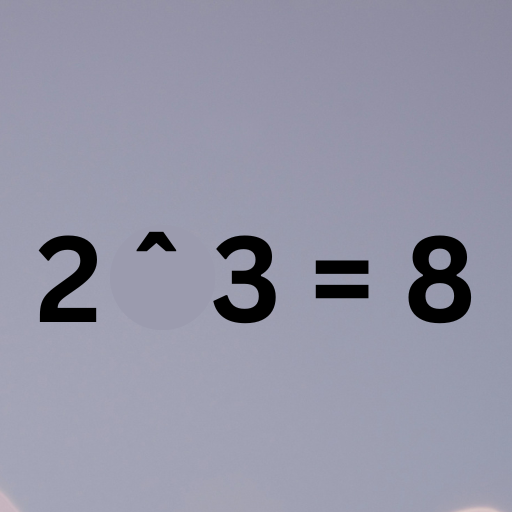
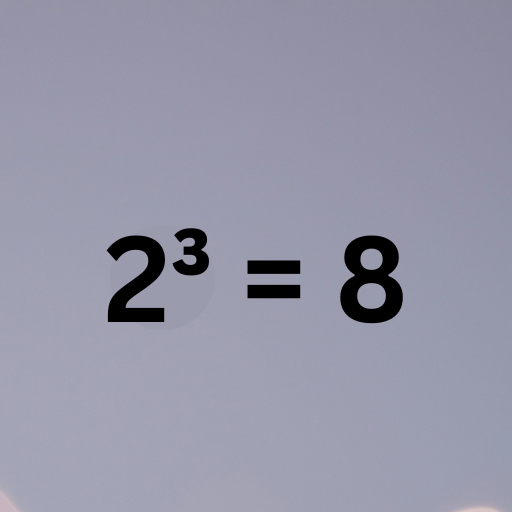
Update styling

Changed region(s): [[0.0625, 0.4375, 0.9375, 0.6562]]

diff --git a/src/app/captcha/captcha.component.ts b/src/app/captcha/captcha.component.ts
@@ -14,7 +14,7 @@ import { ImageItem, GridChallenge } from './captcha.model';
 export class CaptchaComponent implements OnInit {
   constructor(private router: Router) {}
   challenges: GridChallenge[] = [
-    // 1. Can Fly
+    // 1. Can Fly x 15
     {
       type: 'image-select',
       prompt: 'Select all images that can fly',
@@ -31,10 +31,13 @@ export class CaptchaComponent implements OnInit {
         { src: 'assets/images/lion.png', alt: 'lion', selected: false, canFly: false },
         { src: 'assets/images/elephant.png', alt: 'elephant', selected: false, canFly: false },
         { src: 'assets/images/gorilla.png', alt: 'gorilla', selected: false, canFly: false },
+        { src: 'assets/images/spaceship.png', alt: 'spaceship', selected: false, canFly: true },
+        { src: 'assets/images/bat.png', alt: 'bat', selected: false, canFly: true },
+        { src: 'assets/images/eagle.png', alt: 'eagle', selected: false, canFly: true },
       ],
       answerCheck: (imgs: ImageItem[]) => imgs.every(img => img.selected === !!img.canFly)
     },
-    // 2. Odd-One-Out
+    // 2. Odd-One-Out x 12
     {
       type: 'odd-one-out',
       prompt: 'Select the image that does not belong to the group',
@@ -53,30 +56,31 @@ export class CaptchaComponent implements OnInit {
         { src: 'assets/images/sailing-boat.png', alt: 'sailing boat', selected: false, oddOne: true }
       ],
       answerCheck: (imgs: ImageItem[]) => imgs.every(img => img.selected === !!img.oddOne)
-      // answerCheck: (imgs: ImageItem[]) =>
-      //   imgs.filter(img => img.selected).length === 1 &&
-      //   !!imgs.find(img => img.selected)?.oddOne
     },
-    // 3. Math
+    // 3. Math x 17
     {
       type: 'math-select',
-      prompt: 'Select all images with correct math answers',
+      prompt: 'Select all images with mathCorrect math answers',
       images: [
-        { src: 'assets/images/math-2plus2-4.png', alt: '2 + 2 = 4', selected: false, correct: true },
-        { src: 'assets/images/math-3times3-9.png', alt: '3 × 3 = 9', selected: false, correct: true },
-        { src: 'assets/images/math-6minus5-2.png', alt: '6 - 5 = 2', selected: false, correct: false },
-        { src: 'assets/images/math-4plus4-8.png', alt: '4 + 4 = 8', selected: false, correct: true },
-        { src: 'assets/images/math-7minus1-6.png', alt: '7 - 1 = 5', selected: false, correct: true },
-        { src: 'assets/images/math-8div2-4.png', alt: '8 / 2 = 4', selected: false, correct: true },
-        { src: 'assets/images/math-5plus1-6.png', alt: '5 + 1 = 6', selected: false, correct: true },
-        { src: 'assets/images/math-3plus3-5.png', alt: '3 + 3 = 5', selected: false, correct: false },
-        { src: 'assets/images/math-1plus1-2.png', alt: '1 + 1 = 2', selected: false, correct: true },
-        { src: 'assets/images/math-6mod4-2.png', alt: '6 % 4 = 2', selected: false, correct: true }, // Modulus
-        { src: 'assets/images/math-5mod3-3.png', alt: '5 % 3 = 3', selected: false, correct: false },
-        { src: 'assets/images/math-2pow3-8.png', alt: '2 ^ 3 = 8', selected: false, correct: true }, // Exponent (power)
-        { src: 'assets/images/math-3pow2-6.png', alt: '3 ^ 2 = 6', selected: false, correct: false }
+        { src: 'assets/images/math-2plus2-4.png', alt: '2 + 2 = 4', selected: false, mathCorrect: true },
+        { src: 'assets/images/math-3times3-9.png', alt: '3 × 3 = 9', selected: false, mathCorrect: true },
+        { src: 'assets/images/math-6minus5-2.png', alt: '6 - 5 = 2', selected: false, mathCorrect: false },
+        { src: 'assets/images/math-4plus4-8.png', alt: '4 + 4 = 8', selected: false, mathCorrect: true },
+        { src: 'assets/images/math-7minus1-6.png', alt: '7 - 1 = 5', selected: false, mathCorrect: true },
+        { src: 'assets/images/math-8div2-4.png', alt: '8 / 2 = 4', selected: false, mathCorrect: true },
+        { src: 'assets/images/math-5plus1-6.png', alt: '5 + 1 = 6', selected: false, mathCorrect: true },
+        { src: 'assets/images/math-1plus1-2.png', alt: '1 + 1 = 2', selected: false, mathCorrect: true },
+        { src: 'assets/images/math-4mod6-4.png', alt: '4 % 6 = 4', selected: false, mathCorrect: true },
+        { src: 'assets/images/math-6mod4-2.png', alt: '6 % 4 = 2', selected: false, mathCorrect: true }, // Modulus
+        { src: 'assets/images/math-5mod3-3.png', alt: '5 % 3 = 3', selected: false, mathCorrect: false },
+        { src: 'assets/images/math-2pow3-8.png', alt: '2³ = 8', selected: false, mathCorrect: true }, // Exponent (power)
+        { src: 'assets/images/math-3pow2-6.png', alt: '3² = 6', selected: false, mathCorrect: false },
+        { src: 'assets/images/math-3pow0-3.png', alt: '3⁰ = 3', selected: false, mathCorrect: false },
+        { src: 'assets/images/math-0pow3-0.png', alt: '0³ = 0', selected: false, mathCorrect: true },
+        { src: 'assets/images/math-5pow0-1.png', alt: '5⁰ = 1', selected: false, mathCorrect: true },
+        { src: 'assets/images/math-5pow2-25.png', alt: '5² = 25', selected: false, mathCorrect: true },
       ],
-      answerCheck: (imgs: ImageItem[]) => imgs.every(img => img.selected === !!img.correct)
+      answerCheck: (imgs: ImageItem[]) => imgs.every(img => img.selected === !!img.mathCorrect)
     },
     
   ];
@@ -86,6 +90,8 @@ export class CaptchaComponent implements OnInit {
   userSelections: ImageItem[][] = [];
   timerInterval: any;
   formattedTime = '';
+  //   timerInterval!: ReturnType<typeof setInterval>;
+  // formattedTime = '0m 0s';
 
   ngOnInit() {
     const startTime = Number(sessionStorage.getItem('captchaStartTime'));
@@ -99,7 +105,7 @@ export class CaptchaComponent implements OnInit {
 
   startTimer(startTime: number) {
     if (!startTime) return;
-    // Display live elapsed total time since home start
+    // Display live progress total time since click start
     this.timerInterval = setInterval(() => {
       const seconds = Math.floor((Date.now() - startTime) / 1000);
       const minutes = Math.floor(seconds / 60);
@@ -117,7 +123,7 @@ export class CaptchaComponent implements OnInit {
         src: img.src,
         alt: img.alt,
         selected: img.selected 
-      })) // Lightweight grid: no answer properties like canFly, oddOne, or correct
+      })) // Lightweight grid: no answer properties like canFly, oddOne, or mathCorrect
     };
     sessionStorage.setItem(key, JSON.stringify(state));
     sessionStorage.setItem('currentChallenge', (this.currentChallenge + 1).toString());
@@ -180,21 +186,21 @@ export class CaptchaComponent implements OnInit {
       this.loadCurrentChallenge();
       this.saveProgress();
     } else {
-     // For the final challenge, mark completion and redirect
-    const endTime = Date.now();
-    sessionStorage.setItem('captchaEndTime', endTime.toString());
-    sessionStorage.setItem('captchaCompleted', 'true');
-    this.router.navigate(['/result'])
+    // For the final challenge, mark completion and redirect
+    this.completeCaptchaRecord();
     }
   }
 
   finishChallenge() {
-    this.saveProgress(); // preserve last state
-    const endTime = Date.now();
+    this.completeCaptchaRecord();
+  }
+  // Helper function to complete captcha and redirect
+  private completeCaptchaRecord(endTime: number = Date.now()) {
     const readableEndTime = new Date(endTime).toLocaleString();
     sessionStorage.setItem('captchaEndTime', `${endTime} (${readableEndTime})`);
-    sessionStorage.setItem('captchaCompleted', 'true'); // optional flag for guards
-    this.router.navigate(['/result']); // go to result page
+    sessionStorage.setItem('captchaCompleted', 'true');
+    this.saveProgress();
+    this.router.navigate(['/result']);
   }
 }
 

diff --git a/src/app/captcha/captcha.component.html b/src/app/captcha/captcha.component.html
@@ -2,6 +2,10 @@
   {{ challenges[currentChallenge].prompt }}
 </h2>
 
+<div class="timer">
+  Your progress time: {{ formattedTime }}
+</div>
+
 <div class="captcha-grid">
   <div 
     *ngFor="let img of gridImages; let i = index"
@@ -24,6 +28,7 @@
   >
     Back
   </button>
+
   <button 
     class="btn-main" 
     (click)="nextChallenge()" 
@@ -32,6 +37,7 @@
   >
     Next
   </button>
+  
   <button 
     class="btn-main"
     [disabled]="!checkAnswers()"
@@ -42,22 +48,9 @@
   </button>
 </div>
 
+<p class="hint-text" *ngIf="!checkAnswers()">
+  {{ currentChallenge === challenges.length - 1
+    ? 'Complete this challenge to enable the “Finish” button.'
+    : 'Complete this challenge to enable the “Next” button.' }}
+</p>
 
-
-
-<!-- <p>captcha works!</p> -->
-<!-- <h2 class="captcha-title">Select all images that can fly</h2>
-<div class="captcha-grid">
-  <div 
-    *ngFor="let img of gridImages; let i = index"
-    class="captcha-cell"
-    (click)="selectImage(i)"
-    [class.selected]="img.selected"
-    [attr.aria-label]="img.alt"
-    tabindex="0"
-    role="button"
-  >
-    <img [src]="img.src" [alt]="img.alt" class="captcha-image" />
-  </div>
-</div>
-<button class="btn-main" (click)="checkAnswers()">Submit</button> -->

diff --git a/src/app/home/home.component.ts b/src/app/home/home.component.ts
@@ -28,24 +28,14 @@ export class HomeComponent implements OnInit {
     });
   }
     startCaptcha() {
-    // Object.keys(sessionStorage).forEach((key) => {
-    //   if (
-    //     key.startsWith('captchaChallenge_') ||
-    //     key === 'currentChallenge' ||
-    //     key === 'captchaStarted' ||
-    //     key === 'captchaStartTime' ||
-    //     key === 'captchaCompleted'
-    //   ) {
-    //     sessionStorage.removeItem(key);
-    //   }
-    // });
-
     // Initialize new session state
     const now = Date.now();
     const readableStartTime = new Date(now).toLocaleString();
 
     sessionStorage.setItem('captchaStarted', 'true');
-    sessionStorage.setItem('captchaStartTime', `${now} (${readableStartTime})`); // ← record the absolute start time
+    sessionStorage.setItem('captchaStartTime', now.toString()); // store numeric only
+    sessionStorage.setItem('captchaStartReadable', readableStartTime); // optional, for results display
+    // sessionStorage.setItem('captchaStartTime', `${now} (${readableStartTime})`); // ← record the absolute start time
     this.router.navigate(['/captcha']);
   }
 }

diff --git a/src/styles.css b/src/styles.css
@@ -2,12 +2,13 @@
 
 :root {
   --color-main: #b76773;       /* tea rose red */
+  --color-text: #362222;       /* dark, readable text */
+  --color-button: linear-gradient(90deg, #dea193 0%, #b76773 100%);
+
   --color-accent: #DE5D83;     /* deep pink */
   --color-surface: #ECC5C0;    /* pink blush */
   --color-soft: #DEA193;       /* pale peach */
   --color-bg: #faeef2;         /* lavender blush */
-  --color-text: #362222;       /* dark, readable text */
-  --color-button: linear-gradient(90deg, #dea193 0%, #b76773 100%);
 }
 
 /* Page background and body text */
@@ -49,6 +50,7 @@ h2 {
   color: var(--color-main);
   font-weight: 500;
   margin-bottom: 0.5em;
+  text-decoration: dotted underline;
 }
 
 /* Button styles */
@@ -103,11 +105,6 @@ button :focus, .btn-main:focus {
     gap: 10px;
     width: 90%;
   } 
-
-  /* .captcha-controls {
-    max-width: 200px; 
-    gap: 16px;
-  } */
 
   button,
   .btn-main {

diff --git a/src/app/captcha/captcha.component.css b/src/app/captcha/captcha.component.css
@@ -1,4 +1,3 @@
-/* Ensure consistent box-sizing across the layout */
 *,
 *::before,
 *::after {
@@ -46,12 +45,20 @@
   color: black;
 }
 
+.timer {
+  text-align: center;
+  font-size: 1.1em;
+  color: #333;
+  font-weight: 500;
+}
+
+
 .captcha-controls {
   display: flex;
-  justify-content: space-between; /* Puts buttons on opposite sides */
+  justify-content: space-between; 
   align-items: center;
   max-width: 500px;
-  margin: 0 auto 0 auto; /* Center the button row */
+  margin: 0 auto 0 auto; 
   box-sizing: border-box;
 }
 
@@ -73,7 +80,13 @@
   transform: translateY(-2px) scale(1.03);
 }
 
-
+.hint-text {
+  text-align: center;
+  font-size: 0.9em;
+  color: #666;
+  margin-top: 0.5em;
+  font-style: italic;
+}
 
 @media (max-width: 790px) {
   .captcha-controls {

diff --git a/src/app/result/result.component.ts b/src/app/result/result.component.ts
@@ -64,11 +64,11 @@ export class ResultComponent implements OnInit {
   getPerformanceMessage(seconds: number): string {
     if (seconds < 20)
       return 'Lightning fast! Your focus is unmatched ⚡';
-    if (seconds < 30)
-      return 'Excellent focus! Quick and accurate 🧠';
     if (seconds < 40)
-      return 'Well done! Balanced speed and precision 💪';
+      return 'Excellent focus! Quick and accurate 🧠';
     if (seconds < 50)
+      return 'Well done! Balanced speed and precision 💪';
+    if (seconds < 60)
       return 'Great job! You stayed consistent throughout 👏';
     return 'Persistence pays off — you saw it through! 🕒';
   }

diff --git a/src/app/captcha/captcha.guard.ts b/src/app/captcha/captcha.guard.ts
@@ -18,7 +18,7 @@ export class CaptchaGuard implements CanActivate {
         return false;
     }
 
-    // Allow if started but not completed
+    // Allow access if started but not completed
     if (started && !completed) return true;
 
     // Otherwise, send to home

diff --git a/src/app/captcha/captcha.model.ts b/src/app/captcha/captcha.model.ts
@@ -6,7 +6,7 @@ export interface ImageItem {
   selected: boolean;
   canFly?: boolean;
   oddOne?: boolean;
-  correct?: boolean;
+  mathCorrect?: boolean;
 }
 
 export interface GridChallenge {
